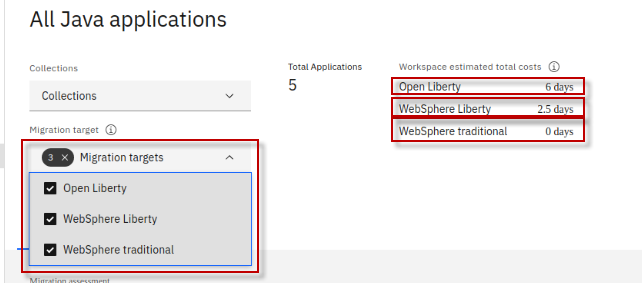
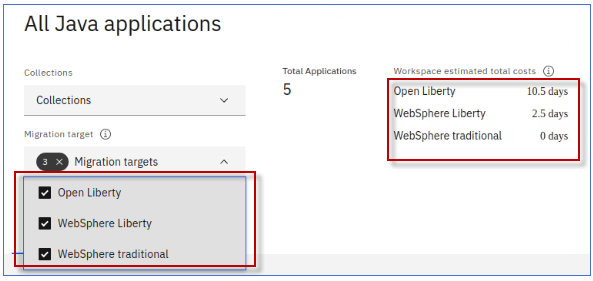
updates TA lab

diff --git a/1153-Evaluate-App-TransformationAdvisor/README.md b/1153-Evaluate-App-TransformationAdvisor/README.md
@@ -568,9 +568,9 @@ previous section.
     costs associated with migration all 5 applications in the workspace
     to the various migration target environments.
 
-    Here you can see that moving the applications in the collection to  **WebSphere traditional** requires zero development costs, meaning there is no code changes necessary.
+    Here you can see that moving the applications in the collection to  **WebSphere traditional** requires **0 days** of development costs, meaning there is no code changes necessary.
  
-    However, moving to WebSphere Liberty may require 2.5 days and Open  Liberty may take 6 days of development time to update the application code to run on those target runtimes.
+    However, moving to WebSphere Liberty may require **2.5 days** and Open  Liberty may take **10.5 days** of development time to update the application code to run on those target runtimes.
  
     ![](./images/media/image35.png)
  
